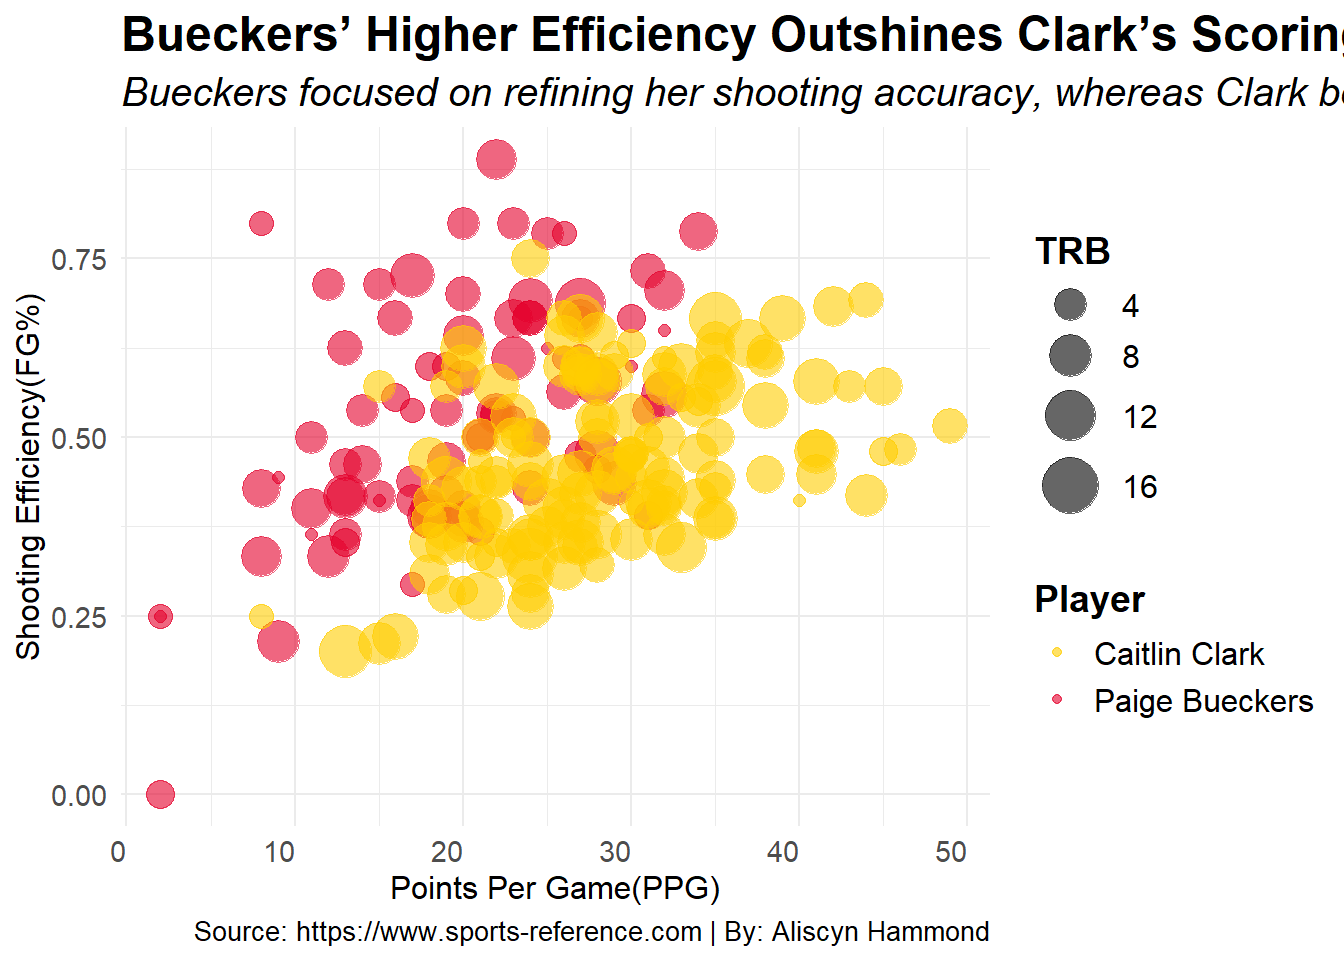
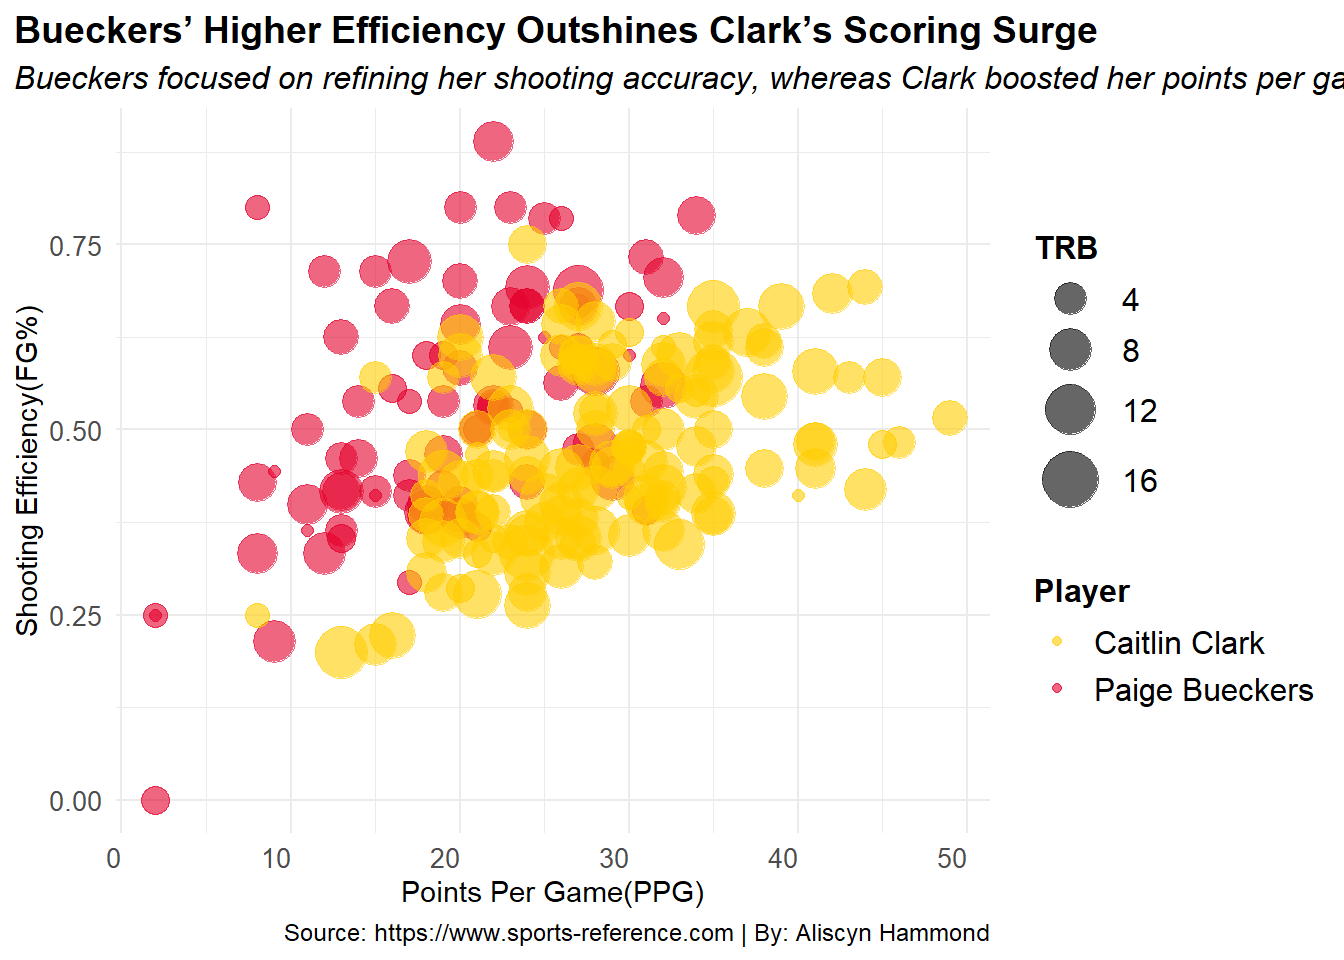
changed font and sizes of words on graphs

diff --git a/posts/paige_caitlin_basketball/index.html b/posts/paige_caitlin_basketball/index.html
@@ -278,8 +278,8 @@ pre > code.sourceCode > span > a:first-child::before { text-decoration: underlin
 <span id="cb2-22"><a href="#cb2-22" aria-hidden="true" tabindex="-1"></a>                                <span class="st">"Steals"</span>)) <span class="sc">+</span></span>
 <span id="cb2-23"><a href="#cb2-23" aria-hidden="true" tabindex="-1"></a>  <span class="fu">theme_minimal</span>()<span class="sc">+</span></span>
 <span id="cb2-24"><a href="#cb2-24" aria-hidden="true" tabindex="-1"></a>  <span class="fu">theme</span>(<span class="at">axis.text.x =</span><span class="fu">element_text</span>(<span class="at">angle=</span><span class="dv">45</span>,<span class="at">hjust=</span><span class="dv">1</span>),</span>
-<span id="cb2-25"><a href="#cb2-25" aria-hidden="true" tabindex="-1"></a>        <span class="at">plot.title =</span><span class="fu">element_text</span>(<span class="at">size=</span><span class="dv">17</span>,<span class="at">face=</span><span class="st">"bold"</span>),</span>
-<span id="cb2-26"><a href="#cb2-26" aria-hidden="true" tabindex="-1"></a>        <span class="at">plot.subtitle =</span><span class="fu">element_text</span>(<span class="at">size=</span><span class="dv">16</span>,<span class="at">face=</span><span class="st">"italic"</span>),</span>
+<span id="cb2-25"><a href="#cb2-25" aria-hidden="true" tabindex="-1"></a>        <span class="at">plot.title =</span><span class="fu">element_text</span>(<span class="at">size=</span><span class="dv">15</span>,<span class="at">face=</span><span class="st">"bold"</span>),</span>
+<span id="cb2-26"><a href="#cb2-26" aria-hidden="true" tabindex="-1"></a>        <span class="at">plot.subtitle =</span><span class="fu">element_text</span>(<span class="at">size=</span><span class="dv">14</span>,<span class="at">face=</span><span class="st">"italic"</span>),</span>
 <span id="cb2-27"><a href="#cb2-27" aria-hidden="true" tabindex="-1"></a>        <span class="at">axis.title.x =</span><span class="fu">element_text</span>(<span class="at">size=</span><span class="dv">14</span>,<span class="at">face=</span><span class="st">"bold"</span>),</span>
 <span id="cb2-28"><a href="#cb2-28" aria-hidden="true" tabindex="-1"></a>        <span class="at">axis.title.y =</span><span class="fu">element_text</span>(<span class="at">size=</span><span class="dv">14</span>,<span class="at">face=</span><span class="st">"bold"</span>),</span>
 <span id="cb2-29"><a href="#cb2-29" aria-hidden="true" tabindex="-1"></a>        <span class="at">axis.text =</span><span class="fu">element_text</span>(<span class="at">size=</span><span class="dv">12</span>),</span>
@@ -315,16 +315,17 @@ pre > code.sourceCode > span > a:first-child::before { text-decoration: underlin
 <span id="cb3-12"><a href="#cb3-12" aria-hidden="true" tabindex="-1"></a>                              <span class="st">"Caitlin Clark"</span><span class="ot">=</span><span class="st">"#FFCD00"</span>))<span class="sc">+</span></span>
 <span id="cb3-13"><a href="#cb3-13" aria-hidden="true" tabindex="-1"></a>  <span class="fu">theme_minimal</span>() <span class="sc">+</span></span>
 <span id="cb3-14"><a href="#cb3-14" aria-hidden="true" tabindex="-1"></a>  <span class="fu">theme</span>(</span>
-<span id="cb3-15"><a href="#cb3-15" aria-hidden="true" tabindex="-1"></a>    <span class="at">plot.title =</span> <span class="fu">element_text</span>(<span class="at">size =</span> <span class="dv">18</span>, <span class="at">face =</span> <span class="st">"bold"</span>),</span>
-<span id="cb3-16"><a href="#cb3-16" aria-hidden="true" tabindex="-1"></a>    <span class="at">plot.subtitle =</span> <span class="fu">element_text</span>(<span class="at">size =</span> <span class="dv">15</span>, <span class="at">face =</span> <span class="st">"italic"</span>),</span>
-<span id="cb3-17"><a href="#cb3-17" aria-hidden="true" tabindex="-1"></a>    <span class="at">axis.title.x =</span> <span class="fu">element_text</span>(<span class="at">size =</span> <span class="dv">12</span>),</span>
-<span id="cb3-18"><a href="#cb3-18" aria-hidden="true" tabindex="-1"></a>    <span class="at">axis.title.y =</span> <span class="fu">element_text</span>(<span class="at">size =</span> <span class="dv">12</span>),</span>
-<span id="cb3-19"><a href="#cb3-19" aria-hidden="true" tabindex="-1"></a>    <span class="at">axis.text.x =</span> <span class="fu">element_text</span>(<span class="at">size =</span> <span class="dv">11</span>, <span class="at">hjust =</span> <span class="dv">1</span>),</span>
-<span id="cb3-20"><a href="#cb3-20" aria-hidden="true" tabindex="-1"></a>    <span class="at">axis.text.y =</span> <span class="fu">element_text</span>(<span class="at">size =</span> <span class="dv">11</span>),</span>
-<span id="cb3-21"><a href="#cb3-21" aria-hidden="true" tabindex="-1"></a>    <span class="at">legend.title =</span> <span class="fu">element_text</span>(<span class="at">size =</span> <span class="dv">14</span>, <span class="at">face =</span> <span class="st">"bold"</span>),</span>
-<span id="cb3-22"><a href="#cb3-22" aria-hidden="true" tabindex="-1"></a>    <span class="at">legend.text =</span> <span class="fu">element_text</span>(<span class="at">size =</span> <span class="dv">12</span>),</span>
-<span id="cb3-23"><a href="#cb3-23" aria-hidden="true" tabindex="-1"></a>    <span class="at">plot.caption =</span> <span class="fu">element_text</span>(<span class="at">size =</span> <span class="dv">10</span>, <span class="at">hjust =</span> <span class="dv">1</span>)</span>
-<span id="cb3-24"><a href="#cb3-24" aria-hidden="true" tabindex="-1"></a>  )</span></code><button title="Copy to Clipboard" class="code-copy-button"><i class="bi"></i></button></pre></div>
+<span id="cb3-15"><a href="#cb3-15" aria-hidden="true" tabindex="-1"></a>    <span class="at">plot.title =</span> <span class="fu">element_text</span>(<span class="at">size =</span> <span class="dv">14</span>, <span class="at">face =</span> <span class="st">"bold"</span>),</span>
+<span id="cb3-16"><a href="#cb3-16" aria-hidden="true" tabindex="-1"></a>    <span class="at">plot.subtitle =</span> <span class="fu">element_text</span>(<span class="at">size =</span> <span class="dv">12</span>, <span class="at">face =</span> <span class="st">"italic"</span>),</span>
+<span id="cb3-17"><a href="#cb3-17" aria-hidden="true" tabindex="-1"></a>    <span class="at">axis.title.x =</span> <span class="fu">element_text</span>(<span class="at">size =</span> <span class="dv">11</span>),</span>
+<span id="cb3-18"><a href="#cb3-18" aria-hidden="true" tabindex="-1"></a>    <span class="at">axis.title.y =</span> <span class="fu">element_text</span>(<span class="at">size =</span> <span class="dv">11</span>),</span>
+<span id="cb3-19"><a href="#cb3-19" aria-hidden="true" tabindex="-1"></a>    <span class="at">plot.title.position =</span> <span class="st">"plot"</span>,</span>
+<span id="cb3-20"><a href="#cb3-20" aria-hidden="true" tabindex="-1"></a>    <span class="at">axis.text.x =</span> <span class="fu">element_text</span>(<span class="at">size =</span> <span class="dv">10</span>, <span class="at">hjust =</span> <span class="dv">1</span>),</span>
+<span id="cb3-21"><a href="#cb3-21" aria-hidden="true" tabindex="-1"></a>    <span class="at">axis.text.y =</span> <span class="fu">element_text</span>(<span class="at">size =</span> <span class="dv">10</span>),</span>
+<span id="cb3-22"><a href="#cb3-22" aria-hidden="true" tabindex="-1"></a>    <span class="at">legend.title =</span> <span class="fu">element_text</span>(<span class="at">size =</span> <span class="dv">12</span>, <span class="at">face =</span> <span class="st">"bold"</span>),</span>
+<span id="cb3-23"><a href="#cb3-23" aria-hidden="true" tabindex="-1"></a>    <span class="at">legend.text =</span> <span class="fu">element_text</span>(<span class="at">size =</span> <span class="dv">12</span>),</span>
+<span id="cb3-24"><a href="#cb3-24" aria-hidden="true" tabindex="-1"></a>    <span class="at">plot.caption =</span> <span class="fu">element_text</span>(<span class="at">size =</span> <span class="dv">9</span>, <span class="at">hjust =</span> <span class="dv">1</span>)</span>
+<span id="cb3-25"><a href="#cb3-25" aria-hidden="true" tabindex="-1"></a>  )</span></code><button title="Copy to Clipboard" class="code-copy-button"><i class="bi"></i></button></pre></div>
 </details>
 <div class="cell-output-display">
 <div>

diff --git a/index.html b/index.html
@@ -210,7 +210,7 @@ window.Quarto = {
 
 <div class="quarto-listing quarto-listing-container-default" id="listing-listing">
 <div class="list quarto-listing-default">
-<div class="quarto-post image-right" data-index="0" data-categories="YmFza2V0YmFsbCx3b21lbiBzcG9ydHMsY29sbGVnZSBzcG9ydHM=" data-listing-date-sort="1733724000000" data-listing-file-modified-sort="1733547596734" data-listing-date-modified-sort="NaN" data-listing-reading-time-sort="5" data-listing-word-count-sort="939">
+<div class="quarto-post image-right" data-index="0" data-categories="YmFza2V0YmFsbCx3b21lbiBzcG9ydHMsY29sbGVnZSBzcG9ydHM=" data-listing-date-sort="1733724000000" data-listing-file-modified-sort="1733547979249" data-listing-date-modified-sort="NaN" data-listing-reading-time-sort="5" data-listing-word-count-sort="945">
 <div class="thumbnail">
 <p><a href="./posts/paige_caitlin_basketball/index.html" class="no-external"></a></p><a href="./posts/paige_caitlin_basketball/index.html" class="no-external">
 <p><img loading="lazy" src="./posts/paige_caitlin_basketball/image.png" class="thumbnail-image"></p>
